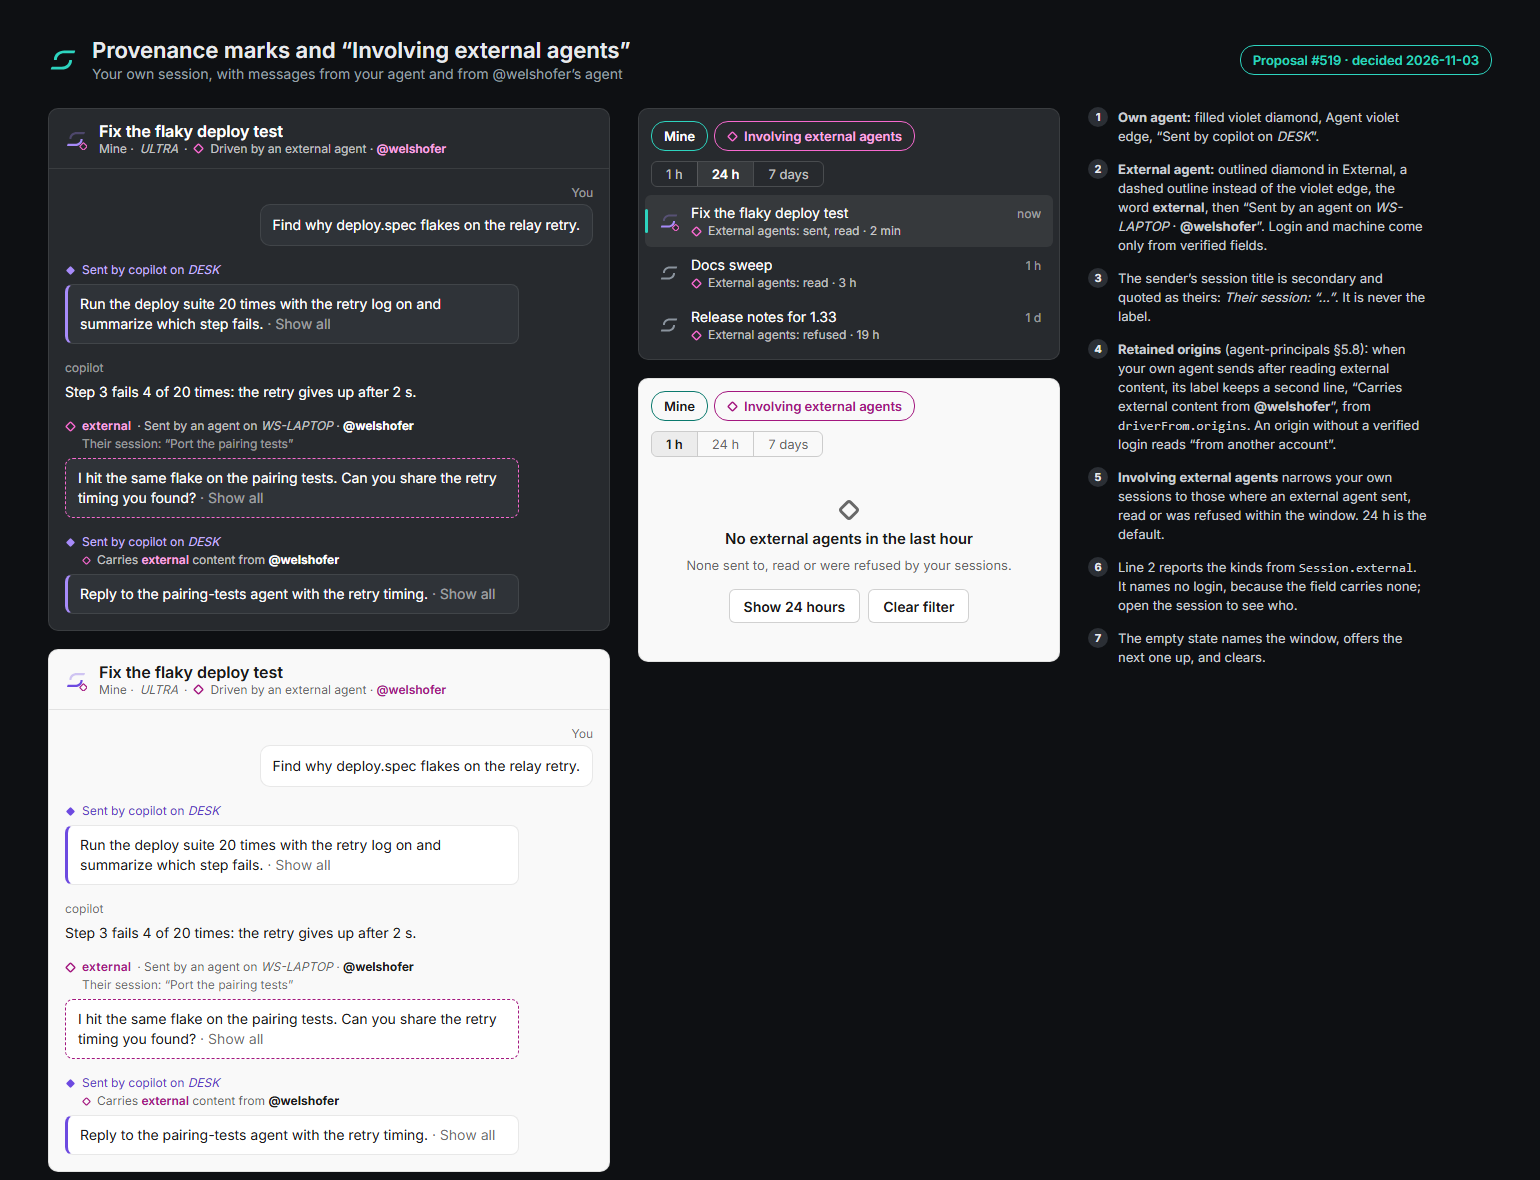
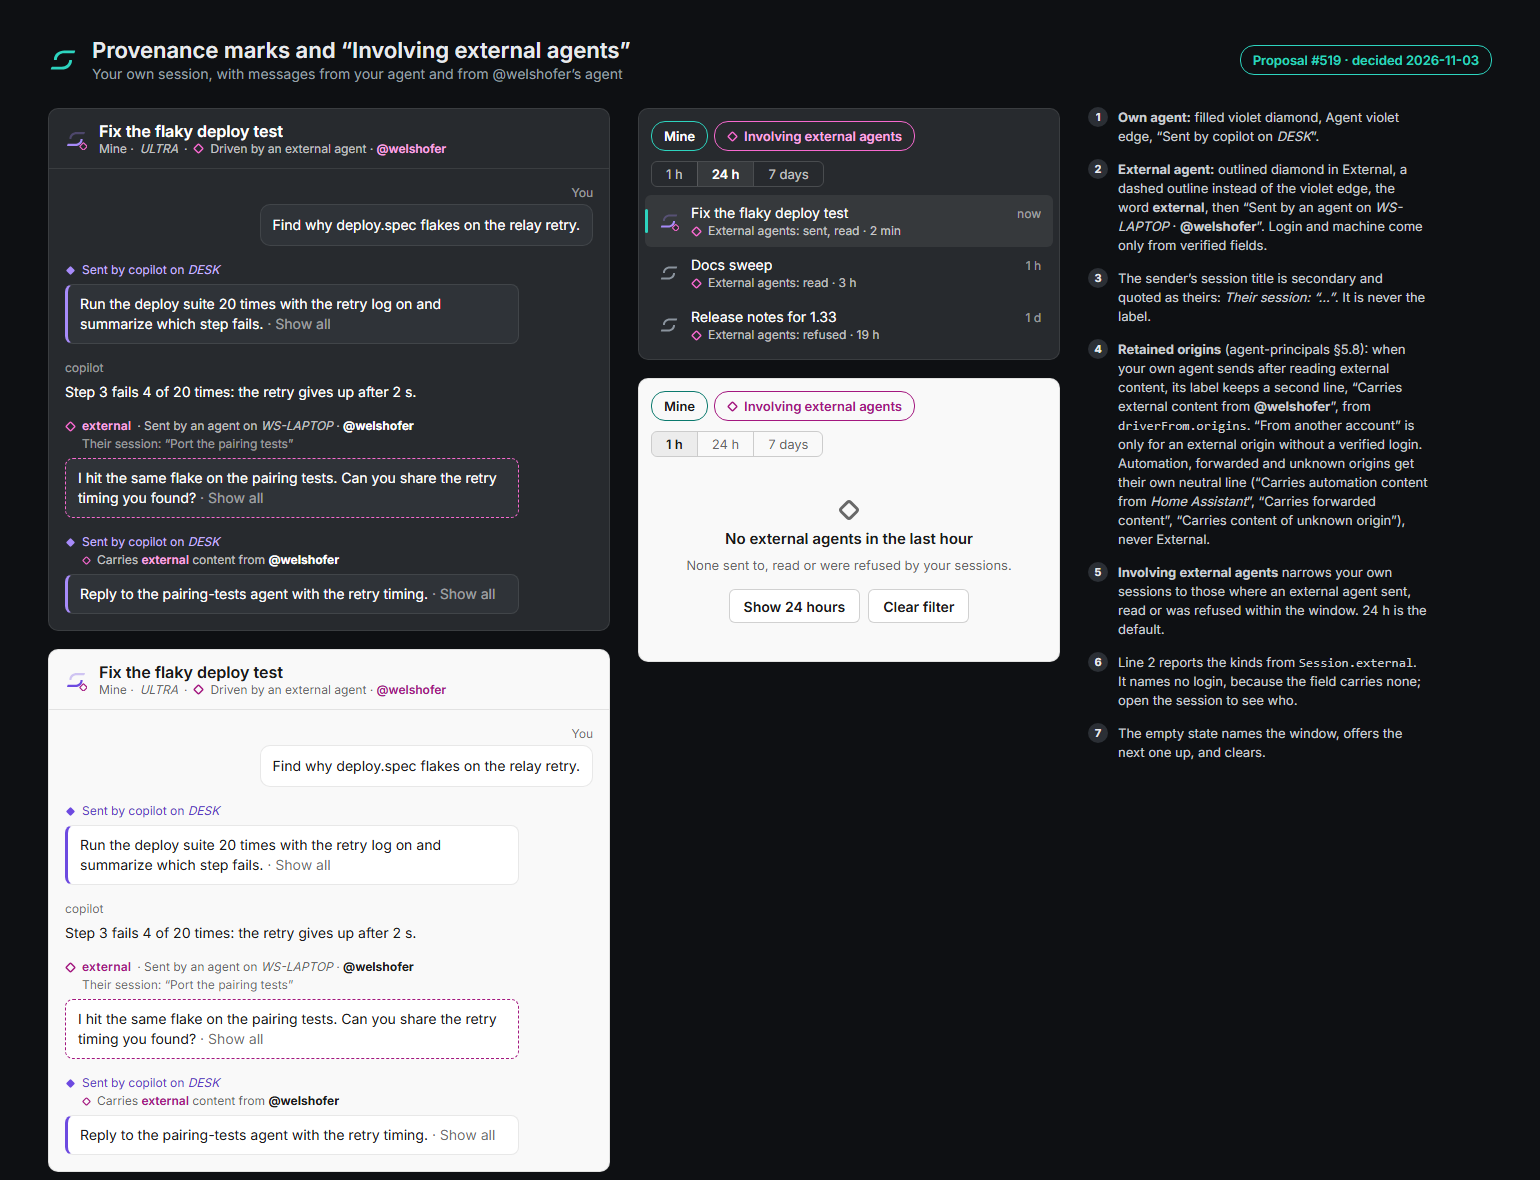
Retained-origin wording per category; label colour distances CIE76 (#519)
Automation, forwarded and unknown origins get neutral lines; 'another account' only for an unverified external origin. The colour-vision table is CIE76, not CIEDE2000. Board 5 and the contact sheet re-rendered.

Copilot-Session: c187cf6c-10c7-4d58-a4bd-247912568b18

Changed region(s): [[0.6857, 0.3356, 0.9351, 0.6407]]

diff --git a/design/canvas/Proposal-519-5-Provenance.dc.html b/design/canvas/Proposal-519-5-Provenance.dc.html
@@ -33,7 +33,7 @@ body{margin:0;background:#0E1013}
       <div style="position:relative;display:flex;gap:12px;align-items:center;padding:8px 12px 8px 14px;min-height:52px;box-sizing:border-box;background:transparent;border-radius:6px"><svg style="display:block;flex:none" xmlns="http://www.w3.org/2000/svg" width="20" height="20" viewBox="0 0 48 48"><path d="M42.872 8.625C43.472 8.625 43.679 8.91 43.494 9.481L42.506 12.519C42.321 13.09 41.928 13.375 41.328 13.375L26 13.375C22.919 13.375 19.809 14.264 17.461 16.321C15.473 18.062 14.286 20.445 14.233 23.101C14.25 23.7 13.958 24 13.358 24L10.399 24C9.799 24 9.494 23.7 9.483 23.1C9.536 19.09 11.298 15.421 14.296 12.778C17.522 9.935 21.741 8.625 26 8.625L42.872 8.625ZM5.128 39.375C4.528 39.375 4.321 39.09 4.506 38.519L5.494 35.481C5.679 34.91 6.072 34.625 6.672 34.625L22 34.625C25.081 34.625 28.191 33.736 30.539 31.679C32.527 29.938 33.714 27.555 33.767 24.899C33.75 24.3 34.042 24 34.642 24L37.601 24C38.201 24 38.506 24.3 38.517 24.9C38.464 28.91 36.702 32.579 33.704 35.222C30.478 38.065 26.259 39.375 22 39.375L5.128 39.375Z" fill="#8B949E"/></svg><div style="flex:1;min-width:0"><div style="font-size:14px;line-height:20px;color:#FFFFFF;white-space:nowrap;overflow:hidden;text-overflow:ellipsis;font-weight:400">Docs sweep</div><div style="font-size:12px;line-height:16px;color:rgba(255,255,255,.72);white-space:nowrap;overflow:hidden;text-overflow:ellipsis;display:flex;gap:6px;align-items:center"><svg width="11" height="11" viewBox="0 0 12 12" style="display:block;flex:none"><rect x="2.4" y="2.4" width="7.2" height="7.2" rx="1.3" transform="rotate(45 6 6)" fill="transparent" stroke="#F769CF" stroke-width="1.6"/></svg><span>External agents: read · 3 h</span></div></div><div style="font-size:12px;color:rgba(255,255,255,.54);flex:none;align-self:flex-start;margin-top:3px">1 h</div></div>
       <div style="position:relative;display:flex;gap:12px;align-items:center;padding:8px 12px 8px 14px;min-height:52px;box-sizing:border-box;background:transparent;border-radius:6px"><svg style="display:block;flex:none" xmlns="http://www.w3.org/2000/svg" width="20" height="20" viewBox="0 0 48 48"><path d="M42.872 8.625C43.472 8.625 43.679 8.91 43.494 9.481L42.506 12.519C42.321 13.09 41.928 13.375 41.328 13.375L26 13.375C22.919 13.375 19.809 14.264 17.461 16.321C15.473 18.062 14.286 20.445 14.233 23.101C14.25 23.7 13.958 24 13.358 24L10.399 24C9.799 24 9.494 23.7 9.483 23.1C9.536 19.09 11.298 15.421 14.296 12.778C17.522 9.935 21.741 8.625 26 8.625L42.872 8.625ZM5.128 39.375C4.528 39.375 4.321 39.09 4.506 38.519L5.494 35.481C5.679 34.91 6.072 34.625 6.672 34.625L22 34.625C25.081 34.625 28.191 33.736 30.539 31.679C32.527 29.938 33.714 27.555 33.767 24.899C33.75 24.3 34.042 24 34.642 24L37.601 24C38.201 24 38.506 24.3 38.517 24.9C38.464 28.91 36.702 32.579 33.704 35.222C30.478 38.065 26.259 39.375 22 39.375L5.128 39.375Z" fill="#8B949E"/></svg><div style="flex:1;min-width:0"><div style="font-size:14px;line-height:20px;color:#FFFFFF;white-space:nowrap;overflow:hidden;text-overflow:ellipsis;font-weight:400">Release notes for 1.33</div><div style="font-size:12px;line-height:16px;color:rgba(255,255,255,.72);white-space:nowrap;overflow:hidden;text-overflow:ellipsis;display:flex;gap:6px;align-items:center"><svg width="11" height="11" viewBox="0 0 12 12" style="display:block;flex:none"><rect x="2.4" y="2.4" width="7.2" height="7.2" rx="1.3" transform="rotate(45 6 6)" fill="transparent" stroke="#F769CF" stroke-width="1.6"/></svg><span>External agents: refused · 19 h</span></div></div><div style="font-size:12px;color:rgba(255,255,255,.54);flex:none;align-self:flex-start;margin-top:3px">1 d</div></div>
       </div></div><div style="background:#F9F9F9;border:1px solid rgba(0,0,0,.09);border-radius:10px;width:420px;flex:none;overflow:hidden"><div style="display:flex;gap:6px;padding:12px 12px 6px;align-items:center"><span style="display:inline-flex;align-items:center;gap:6px;height:28px;padding:0 12px;border-radius:14px;border:1px solid #0B7A6E;background:transparent;font-size:13px;color:#1A1A1A;font-weight:600;white-space:nowrap">Mine</span><span style="display:inline-flex;align-items:center;gap:6px;height:28px;padding:0 12px;border-radius:14px;border:1px solid #A3177F;background:transparent;font-size:13px;color:#A3177F;font-weight:600;white-space:nowrap"><svg width="11" height="11" viewBox="0 0 12 12" style="display:block;flex:none"><rect x="2.4" y="2.4" width="7.2" height="7.2" rx="1.3" transform="rotate(45 6 6)" fill="transparent" stroke="#A3177F" stroke-width="1.6"/></svg>Involving external agents</span></div><div style="display:flex;margin:4px 12px 8px;border:1px solid rgba(0,0,0,.18);border-radius:6px;overflow:hidden;width:max-content"><span style="padding:4px 14px;font-size:13px;color:#1A1A1A;background:rgba(0,0,0,.05);font-weight:600;border-left:0">1 h</span><span style="padding:4px 14px;font-size:13px;color:rgba(0,0,0,.62);background:transparent;font-weight:400;border-left:1px solid rgba(0,0,0,.18)">24 h</span><span style="padding:4px 14px;font-size:13px;color:rgba(0,0,0,.62);background:transparent;font-weight:400;border-left:1px solid rgba(0,0,0,.18)">7 days</span></div><div style="padding:34px 28px 38px;text-align:center;display:flex;flex-direction:column;gap:8px;align-items:center"><svg width="22" height="22" viewBox="0 0 12 12" style="display:block;flex:none"><rect x="2.4" y="2.4" width="7.2" height="7.2" rx="1.3" transform="rotate(45 6 6)" fill="transparent" stroke="rgba(0,0,0,.58)" stroke-width="1.6"/></svg><div style="font-size:15px;font-weight:600;color:#1A1A1A">No external agents in the last hour</div><div style="font-size:13px;line-height:19px;color:rgba(0,0,0,.62)">None sent to, read or were refused by your sessions.</div><div style="display:flex;gap:8px;margin-top:6px"><span style="display:inline-flex;align-items:center;gap:6px;height:32px;padding:0 14px;border-radius:6px;font-size:14px;font-weight:600;white-space:nowrap;background:#FFFFFF;color:#1A1A1A;border:1px solid rgba(0,0,0,.18)">Show 24 hours</span><span style="display:inline-flex;align-items:center;gap:6px;height:32px;padding:0 14px;border-radius:6px;font-size:14px;font-weight:600;white-space:nowrap;background:#FFFFFF;color:#1A1A1A;border:1px solid rgba(0,0,0,.18)">Clear filter</span></div></div></div></div>
-      <div style="width:340px;flex:none;display:flex;flex-direction:column;gap:14px"><div style="display:flex;gap:10px;align-items:flex-start;font-size:13px;line-height:19px;color:#C9CDD2"><span style="flex:none;width:20px;height:20px;border-radius:10px;background:#2B2F35;color:#E8EAED;font-size:11px;font-weight:700;display:flex;align-items:center;justify-content:center;margin-top:-1px">1</span><div><b>Own agent:</b> filled violet diamond, Agent violet edge, “Sent by copilot on <i>DESK</i>”.</div></div><div style="display:flex;gap:10px;align-items:flex-start;font-size:13px;line-height:19px;color:#C9CDD2"><span style="flex:none;width:20px;height:20px;border-radius:10px;background:#2B2F35;color:#E8EAED;font-size:11px;font-weight:700;display:flex;align-items:center;justify-content:center;margin-top:-1px">2</span><div><b>External agent:</b> outlined diamond in External, a dashed outline instead of the violet edge, the word <b>external</b>, then “Sent by an agent on <i>WS-LAPTOP</i> · <b>@welshofer</b>”. Login and machine come only from verified fields.</div></div><div style="display:flex;gap:10px;align-items:flex-start;font-size:13px;line-height:19px;color:#C9CDD2"><span style="flex:none;width:20px;height:20px;border-radius:10px;background:#2B2F35;color:#E8EAED;font-size:11px;font-weight:700;display:flex;align-items:center;justify-content:center;margin-top:-1px">3</span><div>The sender’s session title is secondary and quoted as theirs: <i>Their session: “…”</i>. It is never the label.</div></div><div style="display:flex;gap:10px;align-items:flex-start;font-size:13px;line-height:19px;color:#C9CDD2"><span style="flex:none;width:20px;height:20px;border-radius:10px;background:#2B2F35;color:#E8EAED;font-size:11px;font-weight:700;display:flex;align-items:center;justify-content:center;margin-top:-1px">4</span><div><b>Retained origins</b> (agent-principals §5.8): when your own agent sends after reading external content, its label keeps a second line, “Carries external content from <b>@welshofer</b>”, from <code>driverFrom.origins</code>. An origin without a verified login reads “from another account”.</div></div><div style="display:flex;gap:10px;align-items:flex-start;font-size:13px;line-height:19px;color:#C9CDD2"><span style="flex:none;width:20px;height:20px;border-radius:10px;background:#2B2F35;color:#E8EAED;font-size:11px;font-weight:700;display:flex;align-items:center;justify-content:center;margin-top:-1px">5</span><div><b>Involving external agents</b> narrows your own sessions to those where an external agent sent, read or was refused within the window. 24 h is the default.</div></div><div style="display:flex;gap:10px;align-items:flex-start;font-size:13px;line-height:19px;color:#C9CDD2"><span style="flex:none;width:20px;height:20px;border-radius:10px;background:#2B2F35;color:#E8EAED;font-size:11px;font-weight:700;display:flex;align-items:center;justify-content:center;margin-top:-1px">6</span><div>Line 2 reports the kinds from <code>Session.external</code>. It names no login, because the field carries none; open the session to see who.</div></div><div style="display:flex;gap:10px;align-items:flex-start;font-size:13px;line-height:19px;color:#C9CDD2"><span style="flex:none;width:20px;height:20px;border-radius:10px;background:#2B2F35;color:#E8EAED;font-size:11px;font-weight:700;display:flex;align-items:center;justify-content:center;margin-top:-1px">7</span><div>The empty state names the window, offers the next one up, and clears.</div></div></div></div>
+      <div style="width:340px;flex:none;display:flex;flex-direction:column;gap:14px"><div style="display:flex;gap:10px;align-items:flex-start;font-size:13px;line-height:19px;color:#C9CDD2"><span style="flex:none;width:20px;height:20px;border-radius:10px;background:#2B2F35;color:#E8EAED;font-size:11px;font-weight:700;display:flex;align-items:center;justify-content:center;margin-top:-1px">1</span><div><b>Own agent:</b> filled violet diamond, Agent violet edge, “Sent by copilot on <i>DESK</i>”.</div></div><div style="display:flex;gap:10px;align-items:flex-start;font-size:13px;line-height:19px;color:#C9CDD2"><span style="flex:none;width:20px;height:20px;border-radius:10px;background:#2B2F35;color:#E8EAED;font-size:11px;font-weight:700;display:flex;align-items:center;justify-content:center;margin-top:-1px">2</span><div><b>External agent:</b> outlined diamond in External, a dashed outline instead of the violet edge, the word <b>external</b>, then “Sent by an agent on <i>WS-LAPTOP</i> · <b>@welshofer</b>”. Login and machine come only from verified fields.</div></div><div style="display:flex;gap:10px;align-items:flex-start;font-size:13px;line-height:19px;color:#C9CDD2"><span style="flex:none;width:20px;height:20px;border-radius:10px;background:#2B2F35;color:#E8EAED;font-size:11px;font-weight:700;display:flex;align-items:center;justify-content:center;margin-top:-1px">3</span><div>The sender’s session title is secondary and quoted as theirs: <i>Their session: “…”</i>. It is never the label.</div></div><div style="display:flex;gap:10px;align-items:flex-start;font-size:13px;line-height:19px;color:#C9CDD2"><span style="flex:none;width:20px;height:20px;border-radius:10px;background:#2B2F35;color:#E8EAED;font-size:11px;font-weight:700;display:flex;align-items:center;justify-content:center;margin-top:-1px">4</span><div><b>Retained origins</b> (agent-principals §5.8): when your own agent sends after reading external content, its label keeps a second line, “Carries external content from <b>@welshofer</b>”, from <code>driverFrom.origins</code>. “From another account” is only for an external origin without a verified login. Automation, forwarded and unknown origins get their own neutral line (“Carries automation content from <i>Home Assistant</i>”, “Carries forwarded content”, “Carries content of unknown origin”), never External.</div></div><div style="display:flex;gap:10px;align-items:flex-start;font-size:13px;line-height:19px;color:#C9CDD2"><span style="flex:none;width:20px;height:20px;border-radius:10px;background:#2B2F35;color:#E8EAED;font-size:11px;font-weight:700;display:flex;align-items:center;justify-content:center;margin-top:-1px">5</span><div><b>Involving external agents</b> narrows your own sessions to those where an external agent sent, read or was refused within the window. 24 h is the default.</div></div><div style="display:flex;gap:10px;align-items:flex-start;font-size:13px;line-height:19px;color:#C9CDD2"><span style="flex:none;width:20px;height:20px;border-radius:10px;background:#2B2F35;color:#E8EAED;font-size:11px;font-weight:700;display:flex;align-items:center;justify-content:center;margin-top:-1px">6</span><div>Line 2 reports the kinds from <code>Session.external</code>. It names no login, because the field carries none; open the session to see who.</div></div><div style="display:flex;gap:10px;align-items:flex-start;font-size:13px;line-height:19px;color:#C9CDD2"><span style="flex:none;width:20px;height:20px;border-radius:10px;background:#2B2F35;color:#E8EAED;font-size:11px;font-weight:700;display:flex;align-items:center;justify-content:center;margin-top:-1px">7</span><div>The empty state names the window, offers the next one up, and clears.</div></div></div></div>
 </div>
 </x-dc>
 <script type="text/x-dc" data-dc-script data-props='{"$preview":{"width":1540,"height":1180}}'>

diff --git a/docs/design/ui.md b/docs/design/ui.md
@@ -874,12 +874,22 @@ asked and answer it.", with no question and no buttons.
 | Your own agent | filled Agent diamond, Agent left edge | "Sent by copilot on *DESK*" |
 | An external agent | **outlined** External diamond, dashed External outline, no filled edge | "**external** · Sent by an agent on *WS-LAPTOP* · **@welshofer**", then "Their session: “…”" |
 | Any agent that carries external content | its own mark, plus a second line with a small outlined External diamond | "Carries **external** content from **@welshofer**" |
+| Any agent that carries other retained content | its own mark, plus a second neutral line, no External colour or diamond | "Carries automation content from *Home Assistant*", "Carries forwarded content", "Carries content of unknown origin" |
 
 **Retained origins** (`agent-principals.md` §5.8): a message whose `driverFrom.origins` is not
-empty keeps them visible beside the immediate sender, whoever that is, so content from another
-account never arrives looking like your own agent's alone. The line names each origin's verified
-@login, joined with commas, and "another account" for an origin without one ("origins unknown"
-where the host lost them). The held-message card shows the same line under its sender.
+empty keeps them visible beside the immediate sender, whoever that is, so outside content never
+arrives looking like your own agent's alone. The wording follows each origin's category, one
+line per category:
+- `external:<account>`: "Carries **external** content from **@login**", logins joined with
+  commas, with "another account" only for an external origin whose login isn't verified. Only
+  this line takes the External colour and the outlined diamond.
+- `automation:<connector>`: "Carries automation content from *Home Assistant*" (the
+  connector's name), neutral. Your own automations are not another account.
+- `forwarded`: "Carries forwarded content", neutral.
+- `unknown:<machine>`, or `origins` reported as `"unknown"`: "Carries content of unknown
+  origin", neutral, never guessed into another category.
+
+The held-message card shows the same lines under its sender.
 
 **Involving external agents.** A filter chip in the list header (in "More filters" on a phone),
 with the outlined diamond, and a window of **1 h · 24 h · 7 days**, 24 h by default. It shows

diff --git a/docs/design/proposals/519-collaborators.md b/docs/design/proposals/519-collaborators.md
@@ -132,7 +132,8 @@ On your own sessions' messages:
 | You | none | none |
 | Your own agent (today) | filled violet ◆, violet left edge | Sent by copilot on *DESK* |
 | An external agent | **outlined ◇** in External, a dashed External outline, no filled edge | **external** · Sent by an agent on *WS-LAPTOP* · **@welshofer** |
-| Any agent carrying external content (§5.8 retained origins) | its own mark, plus a small outlined ◇ line | Carries **external** content from **@welshofer** |
+| Any agent carrying external content (§5.8 retained origins) | its own mark, plus a small outlined ◇ line | Carries **external** content from **@welshofer** (*another account* only for an external origin without a verified login) |
+| Any agent carrying automation, forwarded or unknown content (§5.8) | its own mark, plus a neutral line, no External colour | Carries automation content from *Home Assistant* · Carries forwarded content · Carries content of unknown origin |
 
 Under the external label, secondary and quoted: *Their session: "Port the pairing tests"*.
 The filled-versus-outlined contrast and the word "external" keep the two apart in forced
@@ -301,7 +302,8 @@ when selected) carries the user's own theme contrast.
 
 ### 4.4 Colour vision
 
-CIEDE2000 ΔE between External and each existing role, normal / protan / deutan / tritan
+CIE76 ΔE\*ab (straight-line distance in CIELAB, not CIEDE2000; on this scale the values run
+roughly twice CIEDE2000's) between External and each existing role, normal / protan / deutan / tritan
 simulation:
 
 | vs | Dark | Light |
